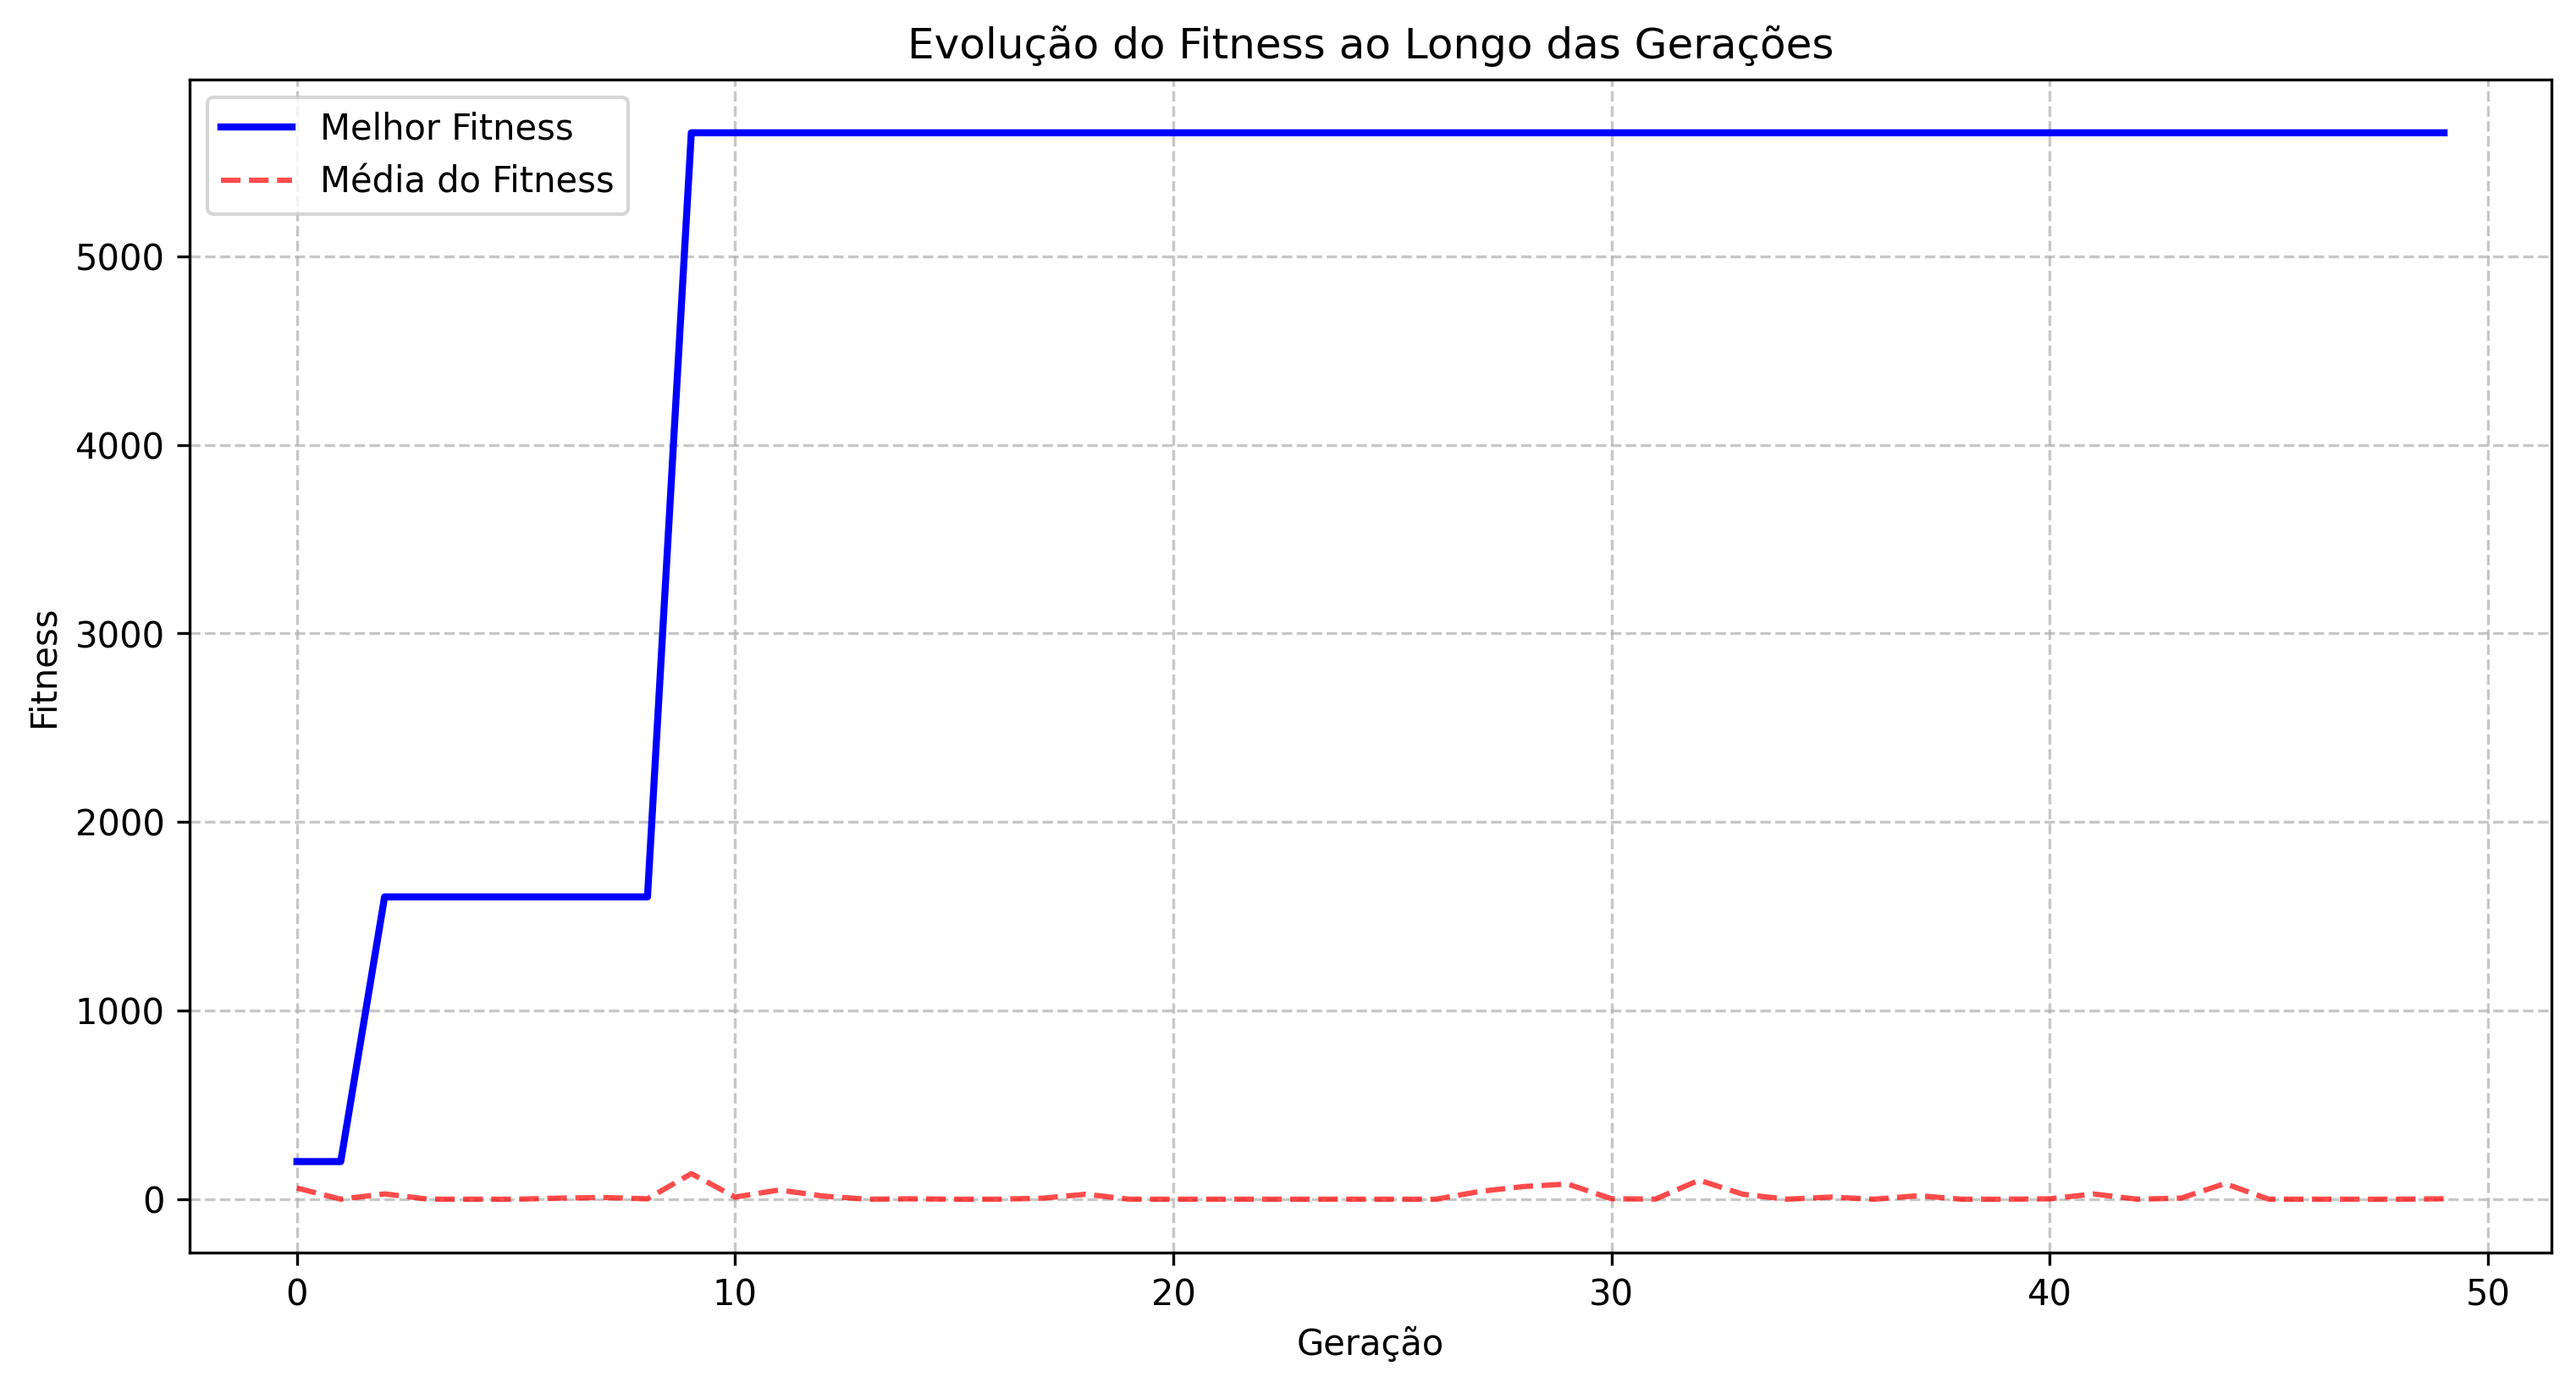
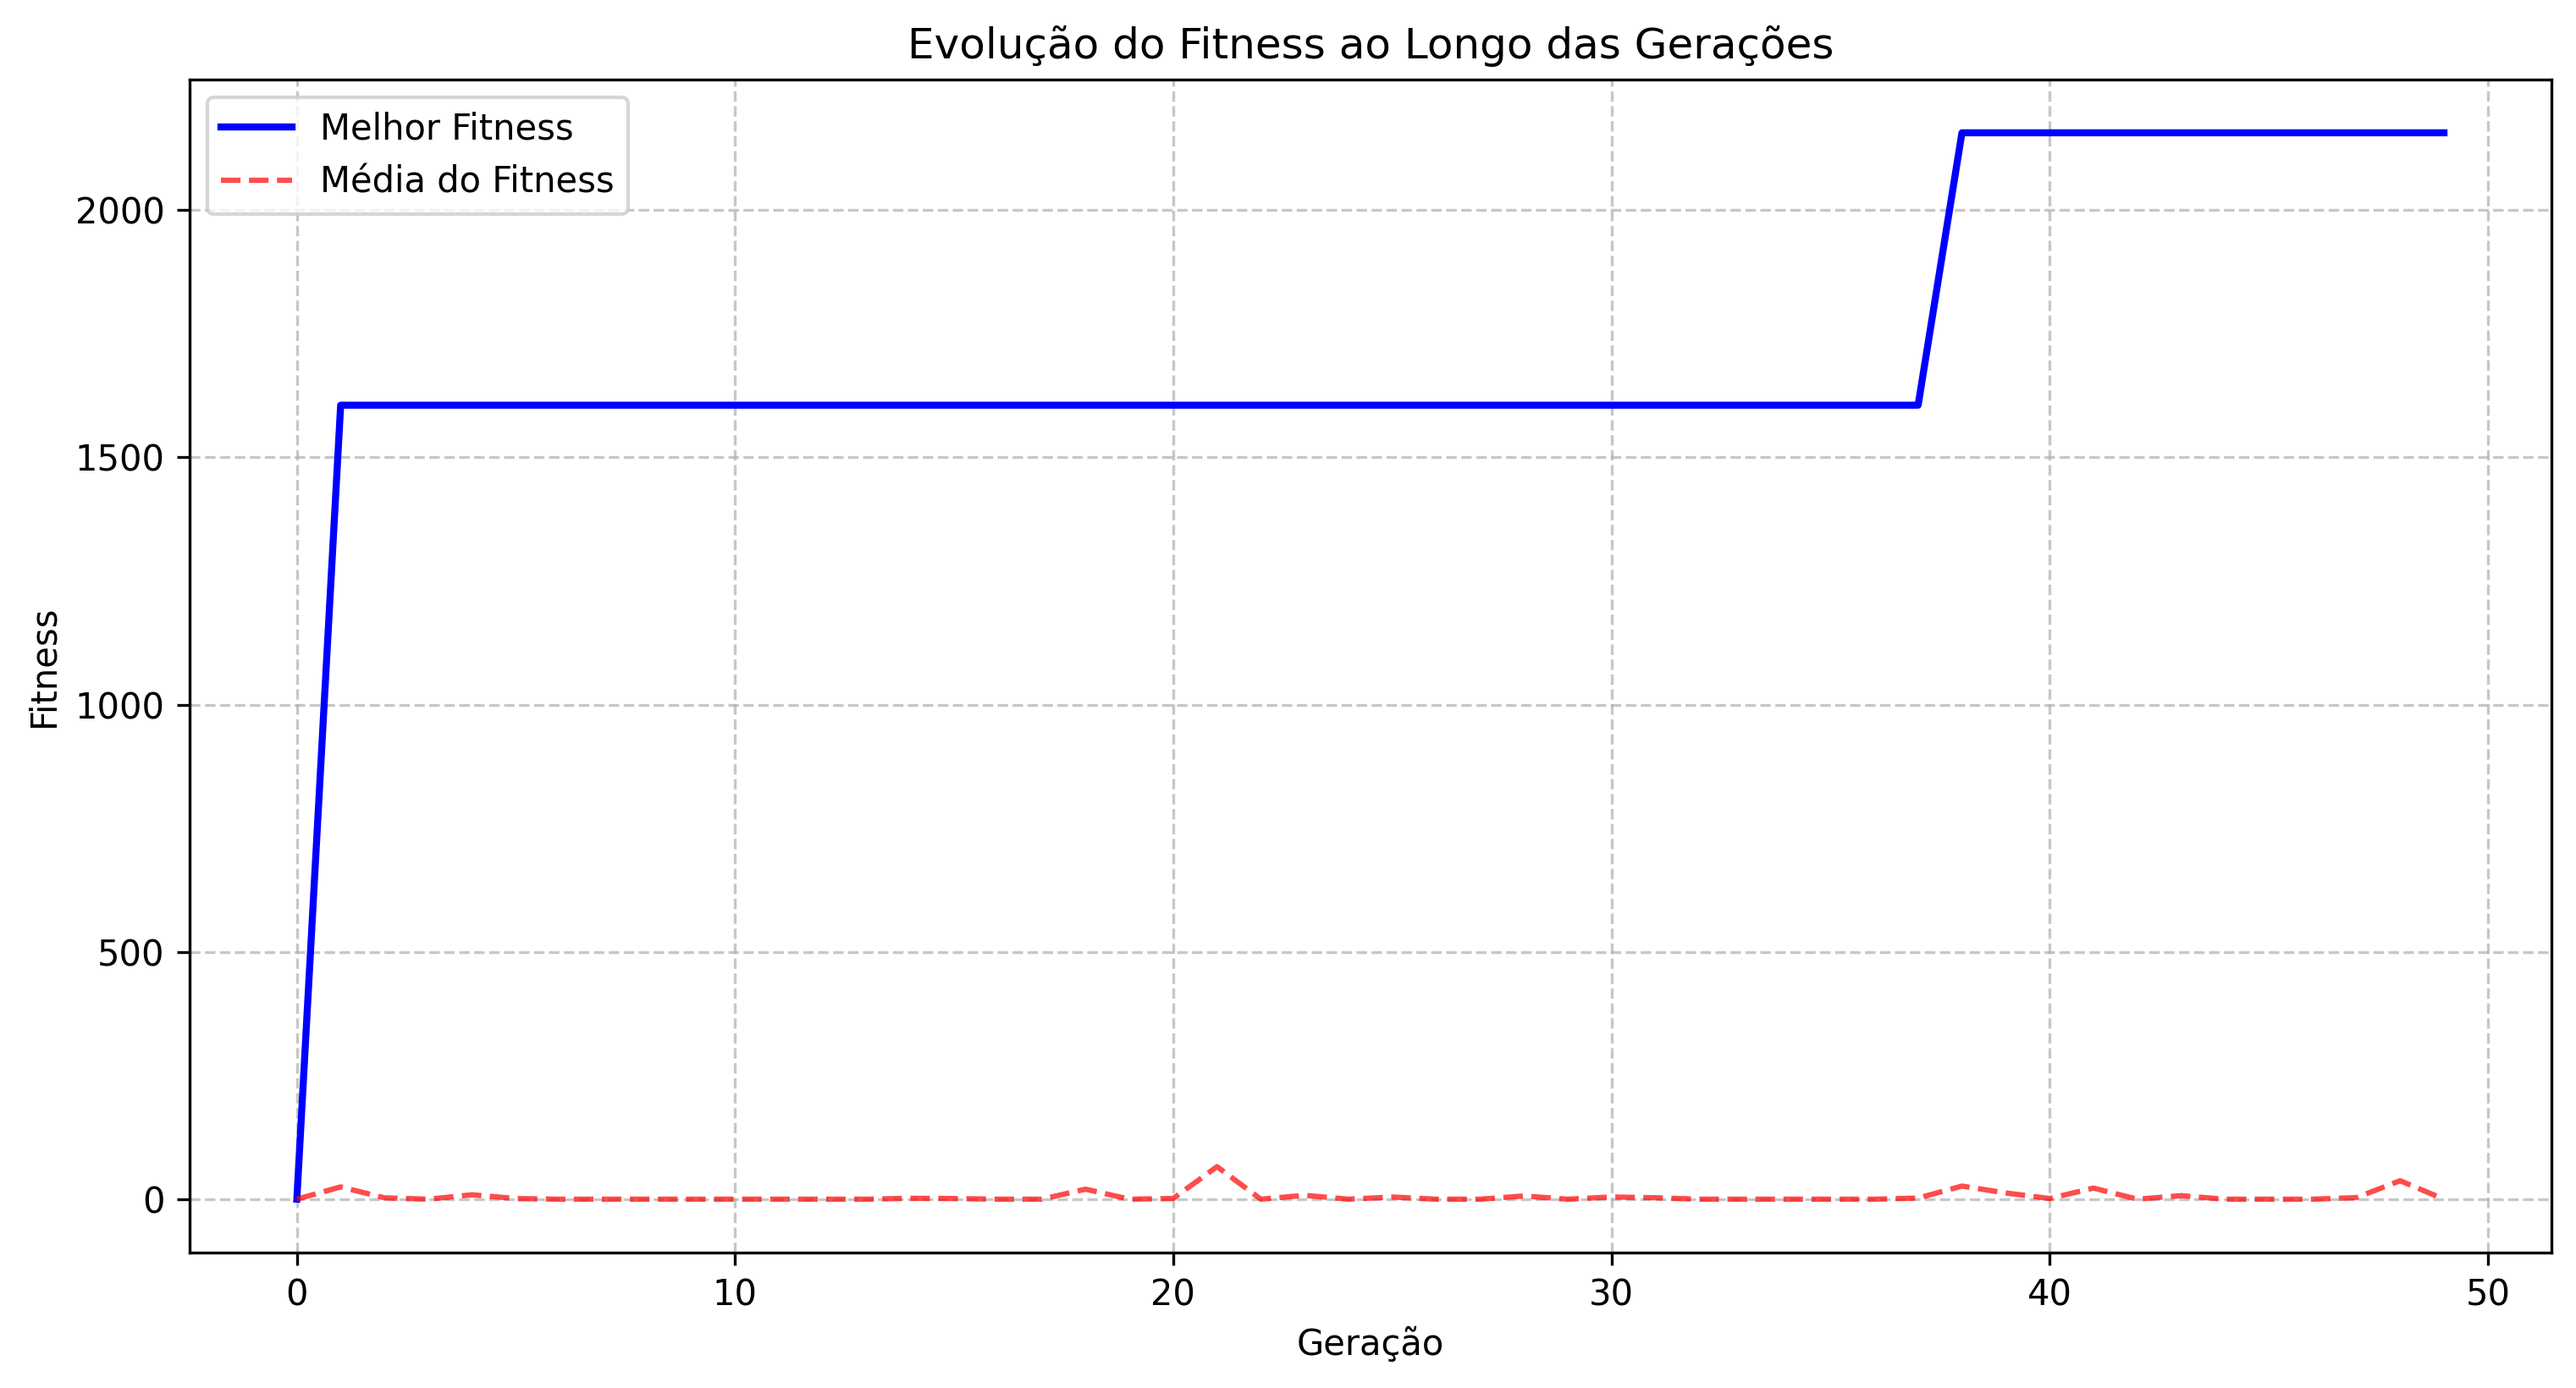
feat: Atualizações na lógica do robô e ajustes nos parâmetros de evolução
- Modificações na árvore de decisão do melhor robô para melhorar a performance.
- Aumento do limite de gerações sem melhoria para 15 e redução da tolerância a melhorias mínimas para 0.005.
- Ajustes na seleção de indivíduos, reduzindo a pressão seletiva e aumentando o elitismo para 30%.
- Alterações nas taxas de mutação e crossover para otimizar a evolução.
- Atualização do tamanho da população para 100 e redução do número de gerações para 50.

diff --git a/robo_exercicio.py b/robo_exercicio.py
@@ -951,9 +951,9 @@ class ProgramacaoGenetica:
 		self.historico_fitness = []
 		self.historico_media_fitness = []  # Novo: histórico da média do fitness
 		self.geracoes_sem_melhoria = 0
-		self.max_geracoes_sem_melhoria = 10
+		self.max_geracoes_sem_melhoria = 15  # Aumentado para dar mais tempo de evolução
 		self.ultimo_fitness = float('-inf')
-		self.melhorias_minimas = 0.01
+		self.melhorias_minimas = 0.005  # Reduzido para ser mais tolerante a pequenas melhorias
 
 	def avaliar_populacao(self):
 		ambiente = Ambiente()
@@ -1074,29 +1074,35 @@ class ProgramacaoGenetica:
 
 	def selecionar(self):
 		# Seleção por torneio com pressão seletiva variável
-		tamanho_torneio = 5 # Aumentado para mais diversidade
+		tamanho_torneio = 3  # Reduzido para menos pressão seletiva
 		selecionados = []
 
 		# Ordenar população por fitness
 		populacao_ordenada = sorted(self.populacao, key=lambda x: x.fitness, reverse=True)
 
-		# Manter os 20% melhores indivíduos (aumentado elitismo)
-		n_elite = max(1, int(self.tamanho_populacao * 0.2))
+		# Manter os 30% melhores indivíduos (aumentado elitismo)
+		n_elite = max(1, int(self.tamanho_populacao * 0.3))
 		selecionados.extend(populacao_ordenada[:n_elite])
 
 		# Selecionar o resto da população por torneio
 		while len(selecionados) < self.tamanho_populacao:
-			# Seleção por torneio
+			# Seleção por torneio com probabilidade proporcional ao fitness
 			torneio = random.sample(self.populacao, tamanho_torneio)
-			vencedor = max(torneio, key=lambda x: x.fitness)
+			# Calcular probabilidades baseadas no fitness
+			fitness_total = sum(ind.fitness for ind in torneio)
+			if fitness_total > 0:
+				probabilidades = [ind.fitness/fitness_total for ind in torneio]
+				vencedor = random.choices(torneio, weights=probabilidades, k=1)[0]
+			else:
+				vencedor = random.choice(torneio)
 			selecionados.append(vencedor.copy())
 
 		return selecionados
 
 	def evoluir(self, n_geracoes=50):
 		# Parâmetros ajustados para melhor exploração
-		taxa_mutacao = 0.3
-		taxa_crossover = 0.8
+		taxa_mutacao = 0.2  # Reduzida para ser mais suave
+		taxa_crossover = 0.9  # Aumentada para mais troca de material genético
 
 		for geracao in range(n_geracoes):
 			print(f"Geração {geracao + 1}/{n_geracoes}")
@@ -1117,16 +1123,16 @@ class ProgramacaoGenetica:
 			if self.geracoes_sem_melhoria >= self.max_geracoes_sem_melhoria:
 				print("Detectada estagnação - aumentando diversidade...")
 				# Aumentar taxa de mutação temporariamente
-				taxa_mutacao = min(0.5, taxa_mutacao * 1.5)
+				taxa_mutacao = min(0.4, taxa_mutacao * 1.3)  # Aumento mais suave
 				# Adicionar mais indivíduos aleatórios
-				n_aleatorios = max(1, int(self.tamanho_populacao * 0.3)) # Aumentado para 30%
+				n_aleatorios = max(1, int(self.tamanho_populacao * 0.2))  # Reduzido para 20%
 				for _ in range(n_aleatorios):
 					novo = IndividuoPG(self.profundidade)
 					self.populacao.append(novo)
 				self.geracoes_sem_melhoria = 0
 				print(f"taxa de mutação: {taxa_mutacao}")
 			else:
-				taxa_mutacao = 0.3 # Resetar taxa de mutação
+				taxa_mutacao = 0.2  # Resetar taxa de mutação
 
 			# Selecionar indivíduos
 			selecionados = self.selecionar()
@@ -1135,7 +1141,7 @@ class ProgramacaoGenetica:
 			nova_populacao = []
 
 			# Elitismo - manter os melhores indivíduos
-			n_elite = max(1, int(self.tamanho_populacao * 0.2))
+			n_elite = max(1, int(self.tamanho_populacao * 0.3))  # Aumentado para 30%
 			nova_populacao.extend(selecionados[:n_elite])
 
 			# Preencher o resto da população
@@ -1149,9 +1155,9 @@ class ProgramacaoGenetica:
 				else:
 					filho = pai1.copy()
 
-				# Mutação
+				# Mutação mais suave
 				if random.random() < taxa_mutacao:
-					filho.mutacao(probabilidade=0.4) # Aumentada probabilidade de mutação por nó
+					filho.mutacao(probabilidade=0.3)  # Reduzida probabilidade de mutação por nó
 
 				nova_populacao.append(filho)
 
@@ -1171,8 +1177,8 @@ if __name__ == "__main__":
 
 	# Criar e treinar o algoritmo genético
 	print("Treinando o algoritmo genético...")
-	pg = ProgramacaoGenetica(tamanho_populacao=150, profundidade=2)
-	melhor_individuo, historico = pg.evoluir(n_geracoes=100)
+	pg = ProgramacaoGenetica(tamanho_populacao=100, profundidade=2)
+	melhor_individuo, historico = pg.evoluir(n_geracoes=50)
 
 	# Salvar o melhor indivíduo
 	print("Salvando o melhor indivíduo...")
